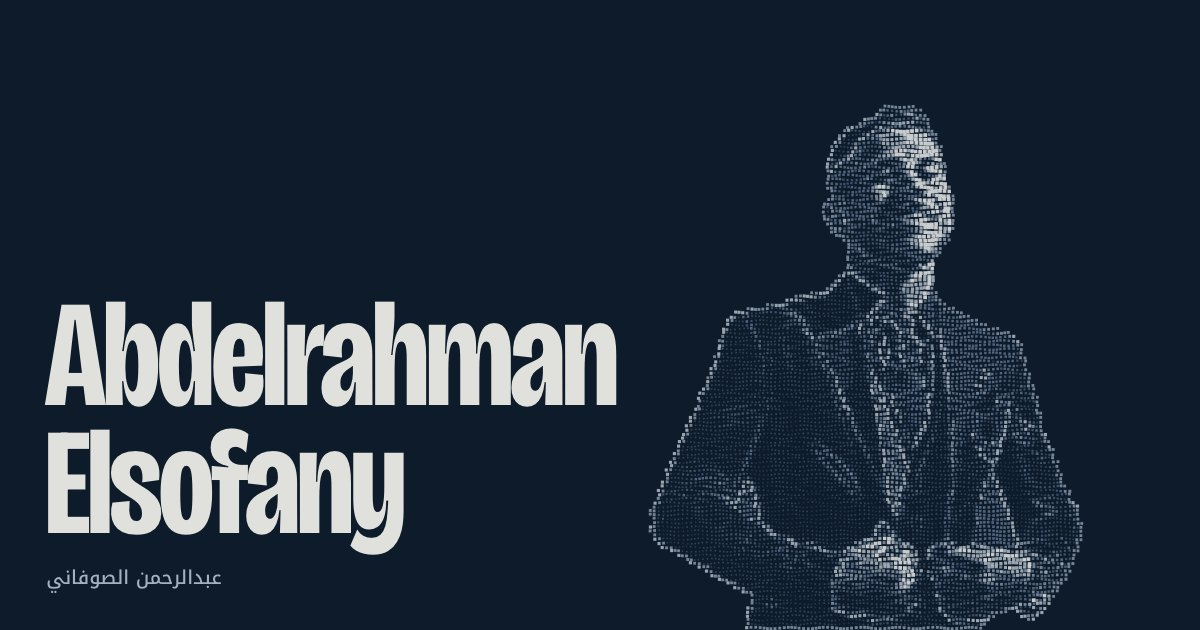
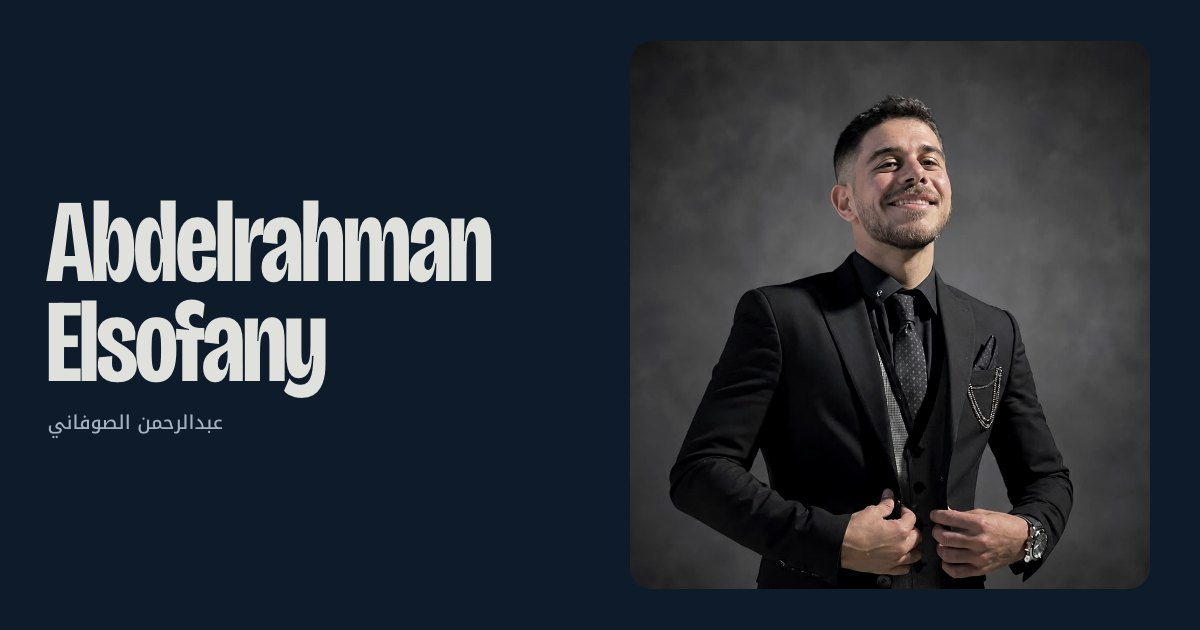
Put the real photo in the hero and drop the attention caption
Replace the dot-portrait hero and its readout with the photo from
About, revealed by the 3x3 kernel scan, and remove the photo from
About. Remove the caption under the attention sentence, the unused
point-cloud data, and regenerate the social preview image.

diff --git a/site/js/main.js b/site/js/main.js
@@ -58,204 +58,12 @@
   ['ventures', 'products', 'diadose', 'research', 'about', 'contact'].forEach((id) => { const s = document.getElementById(id); if (s) secIO.observe(s); });
 
   /* ------------------------------------------------------------------
-     Hero: the portrait is sampled by a reverse-diffusion process.
-     x_t = sqrt(abar_t) * x_0 + sqrt(1 - abar_t) * eps   (cosine schedule)
-     Load runs t from 1 to 0; scrolling away pushes t back up; the
-     pointer injects local noise that springs back.
-  ------------------------------------------------------------------ */
-  const canvas = $('[data-diffusion]');
-  const hero = $('[data-hero]');
-  const stepEl = $('[data-step]');
-  const lossEl = $('[data-loss]');
-  const sparkEl = $('[data-spark]');
-
-  fetch('/assets/portrait-points.json').then((r) => r.json()).then(initDiffusion).catch(() => {});
-
-  function initDiffusion(data) {
-    const ctx = canvas.getContext('2d', { alpha: true });
-    const raw = data.p;
-    const gw = Math.round(1 / data.g);
-    const aspect = data.aspect;
-    const BUCKETS = 7;
-
-    let N, px, py, pv, eps, dx, dy, vx, vy, order, cellMul;
-    let W = 0, H = 0, dpr = 1, cell = 2, spread = 300, cx = 0, cy = 0, tx, ty;
-
-    function build(sub) {
-      const keep = [];
-      for (let i = 0; i < raw.length; i += 3) {
-        if (sub > 1) {
-          const gx = Math.round(raw[i] * gw - 0.5), gy = Math.round(raw[i + 1] * gw / aspect - 0.5);
-          if (gx % sub || gy % sub) continue;
-        }
-        keep.push(i);
-      }
-      N = keep.length;
-      px = new Float32Array(N); py = new Float32Array(N); pv = new Float32Array(N);
-      eps = new Float32Array(N * 2);
-      dx = new Float32Array(N); dy = new Float32Array(N); vx = new Float32Array(N); vy = new Float32Array(N);
-      tx = new Float32Array(N); ty = new Float32Array(N);
-      const rand = rng(1907);
-      keep.forEach((i, k) => {
-        px[k] = raw[i]; py[k] = raw[i + 1]; pv[k] = raw[i + 2];
-        const u = Math.max(rand(), 1e-6), v = rand();
-        const m = Math.sqrt(-2 * Math.log(u));
-        eps[k * 2] = m * Math.cos(6.2832 * v);
-        eps[k * 2 + 1] = m * Math.sin(6.2832 * v);
-      });
-      // draw order grouped by brightness bucket, so fillStyle changes only BUCKETS times a frame
-      order = Array.from({ length: BUCKETS }, () => []);
-      for (let k = 0; k < N; k++) order[Math.min(BUCKETS - 1, (pv[k] * BUCKETS) | 0)].push(k);
-      order = order.map((a) => Uint32Array.from(a));
-      cellMul = sub;
-    }
-
-    let currentSub = 0;
-    function layout() {
-      const r = canvas.getBoundingClientRect();
-      W = r.width; H = r.height;
-      dpr = Math.min(devicePixelRatio || 1, 2);
-      canvas.width = Math.round(W * dpr); canvas.height = Math.round(H * dpr);
-      ctx.setTransform(dpr, 0, 0, dpr, 0, 0);
-      const mobile = W < 860;
-      let ph, pw, x0, y0;
-      if (mobile) {
-        ph = Math.min(H * 0.5, (W * 0.92) / aspect); pw = ph * aspect;
-        x0 = (W - pw) / 2; y0 = H * 0.55 - ph;
-      } else {
-        ph = H * 0.93; pw = ph * aspect;
-        if (pw > W * 0.6) { pw = W * 0.6; ph = pw / aspect; }
-        x0 = W - pw - W * 0.03; y0 = H - ph;
-      }
-      const base = pw / gw;
-      const sub = base < 3.4 ? 2 : 1;
-      if (sub !== currentSub) { build(sub); currentSub = sub; }
-      cell = base * cellMul;
-      for (let k = 0; k < N; k++) { tx[k] = x0 + px[k] * pw; ty[k] = y0 + py[k] * ph; }
-      cx = x0 + pw / 2; cy = y0 + ph * 0.45;
-      spread = Math.max(W, H) * 0.3;
-    }
-
-    // colours: brightness bucket blends steel -> mist -> bone; noise pulls everything toward steel
-    const STEEL = [65, 90, 119], MIST = [119, 141, 169], BONE = [224, 225, 221];
-    const mix = (a, b, t) => a.map((v, i) => Math.round(v + (b[i] - v) * t));
-    const bucketCol = Array.from({ length: BUCKETS }, (_, b) => {
-      const v = (b + 0.5) / BUCKETS;
-      return v < 0.5 ? mix(STEEL, MIST, v / 0.5) : mix(MIST, BONE, (v - 0.5) / 0.5);
-    });
-
-    const abar = (t) => {
-      const s = 0.008, f = (x) => Math.cos(((x + s) / (1 + s)) * Math.PI / 2) ** 2;
-      return f(t) / f(0);
-    };
-
-    // state
-    let tIntro = RM ? 0 : 1, tShown = tIntro, introStart = 0;
-    const INTRO_MS = 3400;
-    const ptr = { x: -1e4, y: -1e4, active: false, moved: false };
-    const spark = [];
-    let frame = 0, running = false, visible = true;
-
-    hero.addEventListener('pointermove', (e) => {
-      if (RM) return;
-      const r = canvas.getBoundingClientRect();
-      ptr.x = e.clientX - r.left; ptr.y = e.clientY - r.top; ptr.moved = true;
-    }, { passive: true });
-    hero.addEventListener('pointerleave', () => { ptr.x = ptr.y = -1e4; });
-
-    const kick = rng(42);
-    function inject() {
-      const R = cell * 16, R2 = R * R, S = cell * 2.6;
-      for (let k = 0; k < N; k++) {
-        const ex = tx[k] + dx[k] - ptr.x, ey = ty[k] + dy[k] - ptr.y;
-        const d2 = ex * ex + ey * ey;
-        if (d2 > R2) continue;
-        const f = 1 - Math.sqrt(d2) / R;
-        vx[k] += (kick() - 0.5) * S * f * 2 + ex / R * S * f * 0.6;
-        vy[k] += (kick() - 0.5) * S * f * 2 + ey / R * S * f * 0.6;
-      }
-    }
-
-    function draw(now) {
-      if (!introStart) introStart = now;
-      // reverse process on load
-      if (tIntro > 0) {
-        const p = clamp((now - introStart) / INTRO_MS, 0, 1);
-        tIntro = p < 1 ? Math.pow(1 - p, 2.2) : 0;
-      }
-      // forward process on scroll
-      const hr = hero.getBoundingClientRect();
-      const tScroll = RM ? 0 : clamp(-hr.top / (hr.height * 0.85), 0, 1) * 0.9;
-      const target = Math.max(tIntro, tScroll);
-      tShown = lerp(tShown, target, tIntro > 0 ? 1 : 0.14);
-
-      const ab = abar(tShown), sa = Math.sqrt(ab), sn = Math.sqrt(1 - ab);
-      if (ptr.moved) { inject(); ptr.moved = false; }
-
-      ctx.clearRect(0, 0, W, H);
-      const wob = cell * 0.18, tt = now * 0.0012;
-      let err = 0;
-      const sizeBase = cell * 0.32, sizeRange = cell * 0.62;
-      for (let b = 0; b < BUCKETS; b++) {
-        const col = mix(bucketCol[b], STEEL, Math.min(1, sn * 1.15));
-        const alpha = (0.3 + 0.7 * ((b + 0.5) / BUCKETS)) * (1 - 0.35 * sn);
-        ctx.fillStyle = `rgba(${col[0]},${col[1]},${col[2]},${alpha.toFixed(3)})`;
-        const idx = order[b];
-        for (let j = 0; j < idx.length; j++) {
-          const k = idx[j];
-          // spring the pointer displacement back to zero
-          vx[k] = (vx[k] - dx[k] * 0.055) * 0.86; vy[k] = (vy[k] - dy[k] * 0.055) * 0.86;
-          dx[k] += vx[k]; dy[k] += vy[k];
-          const ox = tx[k] - cx, oy = ty[k] - cy;
-          const x = cx + sa * ox + sn * eps[k * 2] * spread + dx[k] + Math.sin(tt + k) * wob;
-          const y = cy + sa * oy + sn * eps[k * 2 + 1] * spread + dy[k] + Math.cos(tt * 1.3 + k * 0.7) * wob;
-          const ex = x - tx[k], ey = y - ty[k];
-          err += ex * ex + ey * ey;
-          const s = sizeBase + sizeRange * pv[k] * (1 - 0.45 * sn);
-          ctx.fillRect(x - s / 2, y - s / 2, s, s);
-        }
-      }
-
-      const loss = err / N / (2 * spread * spread);
-      if ((frame++ & 3) === 0) {
-        stepEl.textContent = String(Math.round(tShown * 1000));
-        lossEl.textContent = loss.toFixed(5);
-        spark.push(loss); if (spark.length > 90) spark.shift();
-        const max = Math.max(...spark, 1e-4);
-        sparkEl.setAttribute('d', spark.map((v, i) => `${i ? 'L' : 'M'}${(i / 89 * 120).toFixed(1)} ${(26 - Math.sqrt(v / max) * 24).toFixed(1)}`).join(''));
-      }
-    }
-
-    function loop(now) {
-      if (!running) return;
-      draw(now);
-      requestAnimationFrame(loop);
-    }
-    const start = () => { if (!running && visible && !document.hidden) { running = true; requestAnimationFrame(loop); } };
-    const stop = () => { running = false; };
-
-    layout();
-    if (RM) { draw(performance.now()); }
-    else {
-      new IntersectionObserver(([e]) => { visible = e.isIntersecting; visible ? start() : stop(); }).observe(hero);
-      document.addEventListener('visibilitychange', () => (document.hidden ? stop() : start()));
-      start();
-    }
-    let rz;
-    addEventListener('resize', () => {
-      clearTimeout(rz);
-      rz = setTimeout(() => { layout(); if (RM) draw(performance.now()); }, 120);
-    });
-  }
-
-  /* ------------------------------------------------------------------
      Statement: one attention head over the sentence
   ------------------------------------------------------------------ */
   (() => {
     const wrap = $('[data-attention]');
     if (!wrap) return;
     const svg = $('.statement__arcs', wrap);
-    const note = $('[data-attention-note]');
     const toks = Object.fromEntries($$('b[data-tok]', wrap).map((b) => [b.dataset.tok, b]));
     const A = {
       problem: { cash: 0.8, queue: 0.78, repair: 0.76, meal: 0.74 },
@@ -275,7 +83,7 @@
       current = q;
       svg.textContent = '';
       Object.values(toks).forEach((b) => { b.classList.remove('is-query', 'is-key'); b.style.removeProperty('--w'); });
-      if (!q) { note.textContent = 'Hover a highlighted word to see what it attends to.'; return; }
+      if (!q) return;
       const box = wrap.getBoundingClientRect();
       const qb = toks[q]; qb.classList.add('is-query');
       const qr = qb.getBoundingClientRect();
@@ -298,7 +106,6 @@
           p.animate([{ strokeDashoffset: len }, { strokeDashoffset: 0 }], { duration: 700, delay: i * 90, easing: 'cubic-bezier(.2,.8,.2,1)', fill: 'forwards' });
         }
       });
-      note.textContent = `Attention from “${q}”: ` + entries.map(([k, w]) => `${k} ${w.toFixed(2)}`).join(', ');
     }
     const auto = () => {
       clearInterval(timer);
@@ -762,7 +569,7 @@
   })();
 
   /* ------------------------------------------------------------------
-     About: a 3x3 Sobel kernel convolves across the photo and reveals it
+     Hero photo: a 3x3 Sobel kernel convolves across it and reveals it
   ------------------------------------------------------------------ */
   (() => {
     const fig = $('[data-conv]');
@@ -818,8 +625,8 @@
         if (i < path.length) requestAnimationFrame(step);
         else { revealed.fill(1); paint(); done = true; cv.remove(); }
       };
-      requestAnimationFrame(step);
-    }, { threshold: 0.35 });
+      setTimeout(() => requestAnimationFrame(step), 350);
+    }, { threshold: 0.2 });
     addEventListener('resize', () => { if (!done) { size(); paint(); } });
   })();
 })();

diff --git a/site/css/styles.css b/site/css/styles.css
@@ -96,35 +96,27 @@ button { font: inherit; color: inherit; background: none; border: 0; cursor: poi
 }
 
 /* ---------- hero ---------- */
-.hero { position: relative; min-height: 100svh; display: grid; align-items: end; padding: calc(var(--nav-h) + 24px) var(--gutter) clamp(28px, 6vh, 64px); overflow: hidden; isolation: isolate; }
-.hero__canvas { position: absolute; inset: 0; width: 100%; height: 100%; z-index: -1; }
-.hero__inner { max-width: var(--max); width: 100%; margin: 0 auto; position: relative; }
+.hero {
+  position: relative; min-height: 100svh; display: grid; align-items: end;
+  grid-template-columns: minmax(0, 1fr) min(40vw, 66vh); gap: clamp(32px, 4vw, 56px);
+  padding: calc(var(--nav-h) + 24px) max(var(--gutter), calc((100vw - var(--max)) / 2 + var(--gutter))) clamp(28px, 6vh, 64px);
+}
+.hero__inner { position: relative; }
 .hero__name {
-  font-weight: 640; font-size: clamp(3.5rem, 12.4vw, 13rem); line-height: .84; letter-spacing: -.028em;
+  font-weight: 640; font-size: clamp(3.5rem, 11.2vw, 12rem); line-height: .84; letter-spacing: -.028em;
   font-variation-settings: "wdth" 75, "opsz" 96; display: grid; margin-left: -.04em;
 }
 .hero__line { display: block; }
 .hero__ar { font-size: clamp(1rem, 1.6vw, 1.375rem); font-weight: 500; letter-spacing: 0; line-height: 1.4; color: var(--muted); justify-self: start; margin: 18px 0 0 .1em; }
 .hero__lede { max-width: 34ch; font-size: clamp(1.125rem, 1.7vw, 1.375rem); line-height: 1.45; color: var(--muted); margin-top: 22px; }
 .hero__actions { display: flex; flex-wrap: wrap; gap: 10px; margin-top: 28px; }
-.readout {
-  position: absolute; right: var(--gutter); top: calc(var(--nav-h) + 9vh); width: 200px;
-  font-size: var(--t-0); color: var(--dim); font-variant-numeric: tabular-nums;
-}
-.readout figcaption { color: var(--muted); line-height: 1.4; margin-bottom: 8px; }
-.readout dl { display: flex; gap: 20px; }
-.readout dl div { display: flex; gap: 6px; align-items: baseline; }
-.readout dd { color: var(--bone); font-size: .9375rem; font-weight: 500; min-width: 6ch; }
-.readout__spark { width: 100%; height: 28px; margin: 8px 0; }
-.readout__spark path { fill: none; stroke: var(--mist); stroke-width: 1.2; vector-effect: non-scaling-stroke; }
-.readout__hint { line-height: 1.4; }
+.hero__photo { position: relative; border-radius: 22px; overflow: hidden; background: var(--navy); aspect-ratio: 966 / 1019; }
+.hero__photo img { width: 100%; height: 100%; object-fit: cover; filter: grayscale(.35) contrast(1.04); }
+.hero__photo canvas { position: absolute; inset: 0; width: 100%; height: 100%; }
 @media (max-width: 860px) {
-  .hero { align-items: end; padding-top: 52vh; }
-  .readout { position: absolute; top: calc(var(--nav-h) + 8px); left: var(--gutter); right: auto; width: 110px; }
-  .readout figcaption, .readout__hint, .readout__spark { display: none; }
-  .readout dl { flex-direction: column; gap: 0; }
+  .hero { grid-template-columns: 1fr; align-content: end; gap: 28px; }
+  .hero__photo { order: -1; width: min(78vw, 320px); }
 }
-@media (hover: none), (prefers-reduced-motion: reduce) { .readout__hint { display: none; } }
 
 /* ---------- section scaffolding ---------- */
 section { position: relative; }
@@ -143,7 +135,6 @@ section { position: relative; }
 .statement__text b { font-weight: 450; color: var(--bone); cursor: default; border-radius: 4px; padding: 0 .06em; margin: 0 -.06em; transition: background-color .3s, color .3s; }
 .statement__text b.is-query { background: var(--bone); color: var(--ink); }
 .statement__text b.is-key { background: rgba(119, 141, 169, calc(var(--w, 0) * .55)); }
-.statement__note { margin-top: 28px; font-size: var(--t-0); color: var(--dim); min-height: 1.6em; }
 
 /* ---------- ventures ---------- */
 .ventures { padding: clamp(72px, 10vw, 140px) 0; }
@@ -434,9 +425,6 @@ section { position: relative; }
 
 /* ---------- about ---------- */
 .about { max-width: var(--max); margin: 0 auto; padding: clamp(72px, 10vw, 140px) var(--gutter); display: grid; grid-template-columns: minmax(0, 5fr) minmax(0, 7fr); gap: clamp(32px, 5vw, 72px); align-items: start; }
-.about__photo { position: sticky; top: calc(var(--nav-h) + 4vh); border-radius: 22px; overflow: hidden; background: var(--navy); aspect-ratio: 966 / 1019; }
-.about__photo img { width: 100%; height: 100%; object-fit: cover; filter: grayscale(.35) contrast(1.04); }
-.about__photo canvas { position: absolute; inset: 0; width: 100%; height: 100%; }
 .about__copy { display: grid; gap: 20px; }
 .about__lede { font-family: var(--serif); font-size: var(--t-2); line-height: 1.5; margin-top: 12px; max-width: 46ch; }
 .about__copy > p:not(.about__lede) { color: var(--muted); max-width: 56ch; }
@@ -446,7 +434,6 @@ section { position: relative; }
 .facts dd { color: var(--bone); max-width: 58ch; }
 @media (max-width: 860px) {
   .about { grid-template-columns: 1fr; }
-  .about__photo { position: relative; top: 0; max-width: 460px; }
   .facts div { grid-template-columns: 1fr; }
 }
 

diff --git a/site/index.html b/site/index.html
@@ -16,7 +16,6 @@
   <link rel="preconnect" href="https://fonts.googleapis.com">
   <link rel="preconnect" href="https://fonts.gstatic.com" crossorigin>
   <link rel="stylesheet" href="https://fonts.googleapis.com/css2?family=Bricolage+Grotesque:opsz,wdth,wght@12..96,75..100,200..800&family=Newsreader:ital,opsz,wght@0,6..72,300..600;1,6..72,300..600&family=Noto+Kufi+Arabic:wght@500&display=swap">
-  <link rel="preload" href="/assets/portrait-points.json" as="fetch" crossorigin>
   <link rel="stylesheet" href="/css/styles.css">
   <script>document.documentElement.classList.add('js');</script>
 </head>
@@ -55,9 +54,8 @@
   </div>
 
   <main id="main">
-    <!-- ============ HERO: reverse diffusion portrait ============ -->
+    <!-- ============ HERO ============ -->
     <section class="hero" id="top" data-hero>
-      <canvas class="hero__canvas" data-diffusion aria-hidden="true"></canvas>
       <div class="hero__inner">
         <h1 class="hero__name">
           <span class="hero__line">Abdelrahman</span>
@@ -70,14 +68,9 @@
           <a class="btn btn--ghost" href="#ventures">See the ventures</a>
         </div>
       </div>
-      <figure class="readout" aria-hidden="true">
-        <figcaption>Reverse diffusion, rendering this portrait from noise</figcaption>
-        <dl>
-          <div><dt>step</dt><dd data-step>1000</dd></div>
-          <div><dt>loss</dt><dd data-loss>1.00000</dd></div>
-        </dl>
-        <svg class="readout__spark" viewBox="0 0 120 28" preserveAspectRatio="none"><path data-spark d=""/></svg>
-        <p class="readout__hint">Move across the portrait to add noise. It learns its way back.</p>
+      <figure class="hero__photo" data-conv>
+        <img src="/assets/portrait.jpg" width="966" height="1019" alt="Abdelrahman Elsofany in a black suit, smiling, against a grey studio backdrop" fetchpriority="high" decoding="async">
+        <canvas aria-hidden="true"></canvas>
       </figure>
     </section>
 
@@ -90,7 +83,6 @@
           I start with the <b data-tok="problem">problem</b>, not the <b data-tok="model">model</b>: a founder's <b data-tok="cash">cash</b> flow, a café's <b data-tok="queue">queue</b>, a homeowner's <b data-tok="repair">repair</b>, a patient's next <b data-tok="meal">meal</b>. Then I build the <b data-tok="AI">AI</b> that fixes it, <b data-tok="price">price</b> it, and take it to the <b data-tok="market">market</b> that needs it.
         </p>
       </div>
-      <p class="statement__note" data-attention-note>Hover a highlighted word to see what it attends to.</p>
     </section>
 
     <!-- ============ VENTURES ============ -->
@@ -422,12 +414,8 @@
 
     <!-- ============ ABOUT ============ -->
     <section class="about" id="about" aria-labelledby="ab-title">
-      <figure class="about__photo" data-conv>
-        <img src="/assets/portrait.jpg" width="966" height="1019" alt="Abdelrahman Elsofany in a black suit, smiling, against a grey studio backdrop" loading="lazy" decoding="async">
-        <canvas aria-hidden="true"></canvas>
-      </figure>
+      <h2 id="ab-title" class="sec-title">About</h2>
       <div class="about__copy">
-        <h2 id="ab-title" class="sec-title">About</h2>
         <p class="about__lede">I'm an AI engineer who thinks like a founder. I co-founded AOM Tech, an AI solutions startup, and founded InTheLine. The question I keep coming back to is where AI actually earns its place in a business, and who will pay for it.</p>
         <p>I studied artificial intelligence at The British University in Egypt, graduated in June 2026, and co-authored five peer-reviewed papers along the way. That research habit carries into business: market research before features, pricing tested with real customers, and honest labels on what is and isn't built yet.</p>
 
